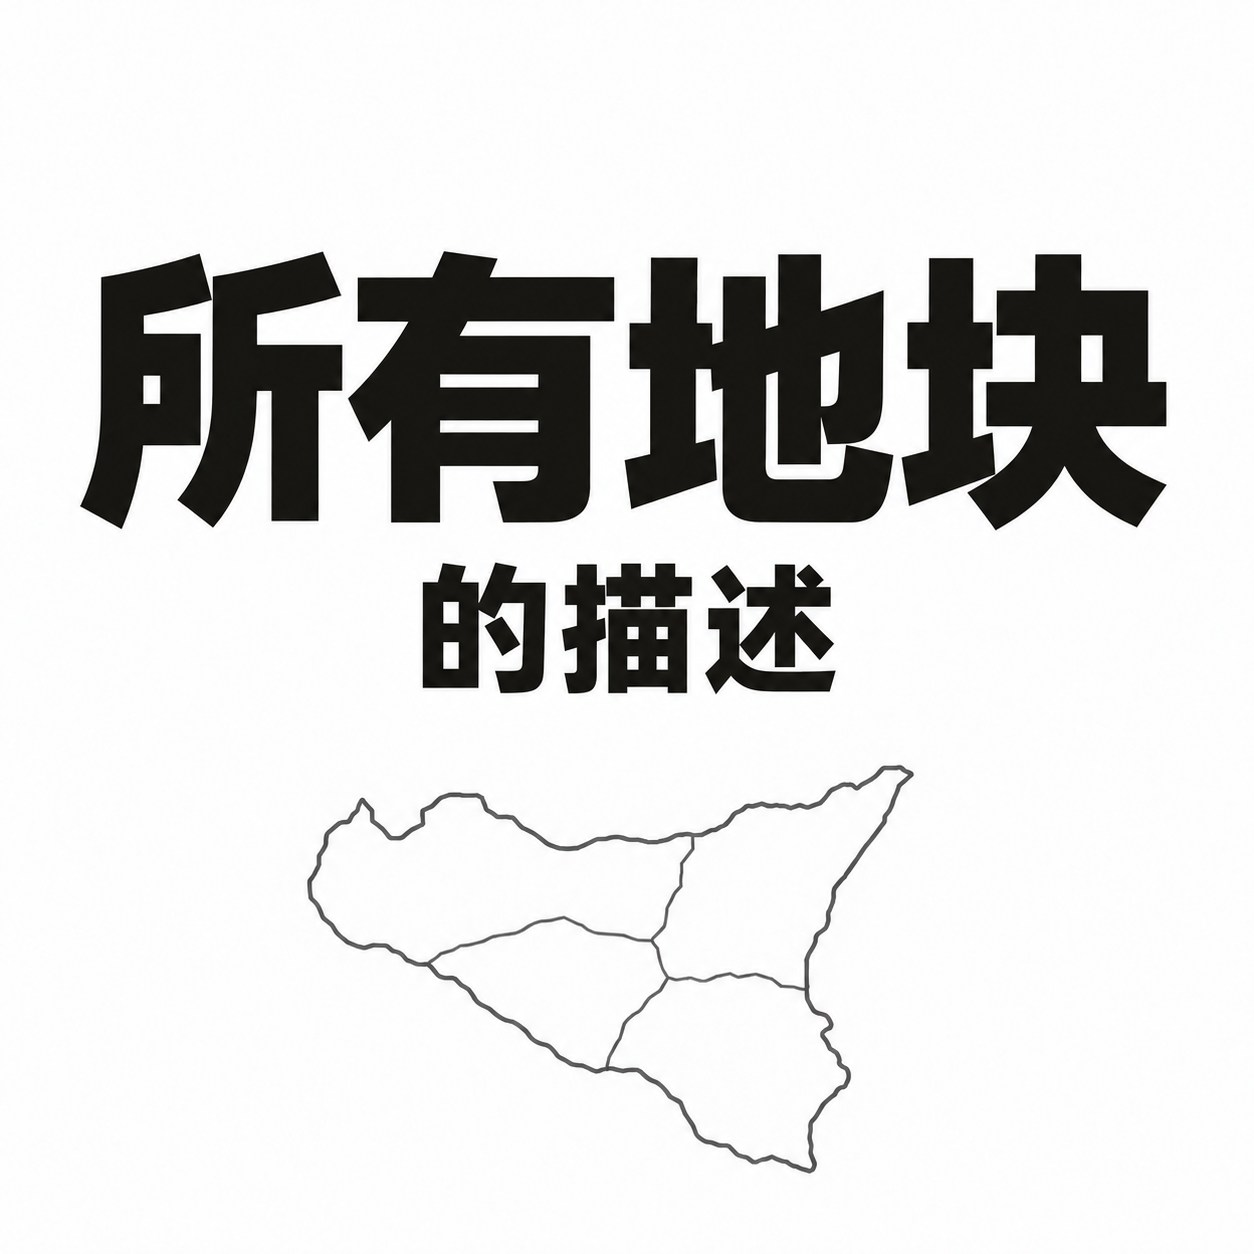
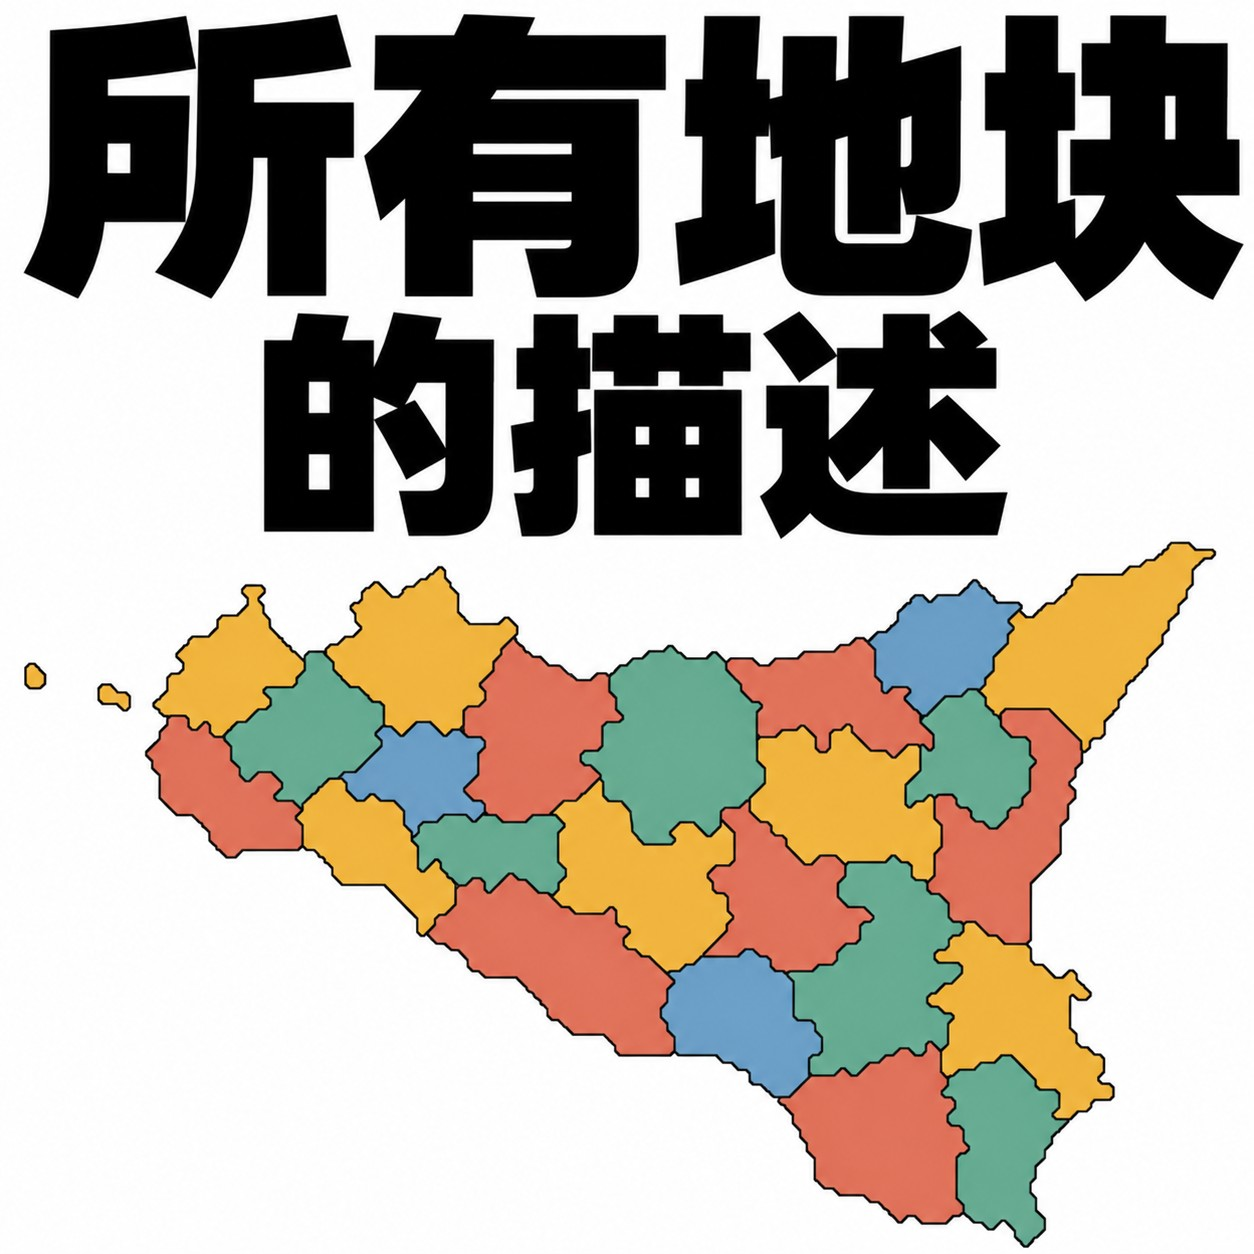
Adopt four-colour Sicily covers and thumbnail; archive the outline set

diff --git a/workshop/assets/README.md b/workshop/assets/README.md
@@ -1,12 +1,12 @@
 # Workshop artwork
 
-- `cover-master.png`: selected English Sicily-outline master, copied unchanged from `title-20261031-sicily/cover.en.png`.
+- `cover-master.png`: selected English four-colour Sicily master, copied unchanged from `title-20261031-four-color/cover.en.png`.
 - `cover.jpg`: English primary Workshop cover, 1254×1254 JPEG, quality 90.
-- `cover.zh-CN.jpg`: matching Chinese cover for the Chinese README and additional promotional material, 1254×1254 JPEG, quality 90.
+- `cover.zh-CN.jpg`: matching Chinese cover, 1254×1254 JPEG, quality 90.
 - `thumbnail.png`: 512×512 English PNG derivative for the shared package's `.metadata/thumbnail.png`.
-- `prompt.txt` / `provenance.json`: actual edit prompts, source references, derivative settings and file hashes.
+- `prompt.txt` / `provenance.json`: actual prompts, source references, derivative settings and file hashes.
 
-The owner selected the two Sicily-outline images on 2026-10-31. They were edited with built-in `image_gen`; publishing derivatives only resize/encode the approved images. Both emphasize EVERY TILE / 所有地块 on a white background. They are typographic graphics, **not in-game screenshots**. The exterior follows a simplified real Sicily coastline reference; interior divisions are illustrative tiles, not administrative borders. Data, source revision, geographic reference images, generation prompts and visual-comparison details are in [the selected artwork folder](title-20261031-sicily/README.md).
+The owner selected the four-colour covers on 2026-10-31. The map follows the 23 game locations of Sicily's main island, coloured so that neighbouring locations differ; see [the selected artwork folder](title-20261031-four-color/README.md). They are graphics made with built-in `image_gen`, **not in-game screenshots**. The previous Sicily-outline artwork is preserved in `dist/artwork-history-20261031-sicily-outline/`.
 
 Display names: **Descriptions for Every Tile** / **所有地块的描述**. The English image is the shared Workshop primary cover and runtime thumbnail. The Chinese README uses the Chinese image. Both covers are listed in `workshop/page.json` for validation; this does not claim that Steam automatically changes a single item's primary image with the reader's language. The Chinese JPEG may also be uploaded as an additional image.
 

diff --git a/workshop/assets/title-20261031-four-color/README.md b/workshop/assets/title-20261031-four-color/README.md
@@ -1,0 +1,9 @@
+# 四色地块封面重设计
+
+2026-10-31，按用户要求放大标题、减少顶部留白，重画英中封面。使用 built-in image_gen，提示词见 prompts.json。当前为本地候选，未上传，也未替换发布候选包。
+
+地图参考直接从本机 EU5 的 locations.png 与 named_locations/00_default.txt 提取，以 definitions.txt 中西西里主岛的23个地点为范围，含埃特纳火山；不含马耳他、潘泰莱里亚等离岛地点。四色按地点邻接关系分配，相邻地点不同色。参考图与地点清单见 sicily-game-reference.png 和 map-source.json。
+
+生成封面按游戏边界参考绘制，边缘经过视觉平滑，不宣称与游戏地图像素完全一致。两语使用同一地图构图；封面是宣传图，不是游戏截图。游戏地图数据属于原权利人，本目录地图参考不适用项目文本或工具许可证。其他素材权利说明沿用上级 README.md。
+
+本版采用更紧凑的大字排版；正式封面、缩略图和运行包的替换待本地设计确认后进行。

diff --git a/CHANGELOG.md b/CHANGELOG.md
@@ -2,6 +2,7 @@
 
 ## Unreleased — artwork update, 2026-10-31
 
+- Adopt the four-colour Sicily covers (23 game locations, neighbours in different colours, larger title) for the Workshop cover, Chinese cover and package thumbnail; archive the Sicily-outline set.
 - Remove the unused local HTML preview generator, its tests, duplicate launch packs, temporary rendering profiles and discussion templates. Keep build/validation tools, approved artwork, release candidates and manual acceptance records.
 - Add short English/Chinese installation instructions and make Workshop comments the primary feedback channel, with the author's commitment to active maintenance and game-update support.
 - Rename the display title to **Descriptions for Every Tile** / **所有地块的描述**; keep the stable mod ID and version.
